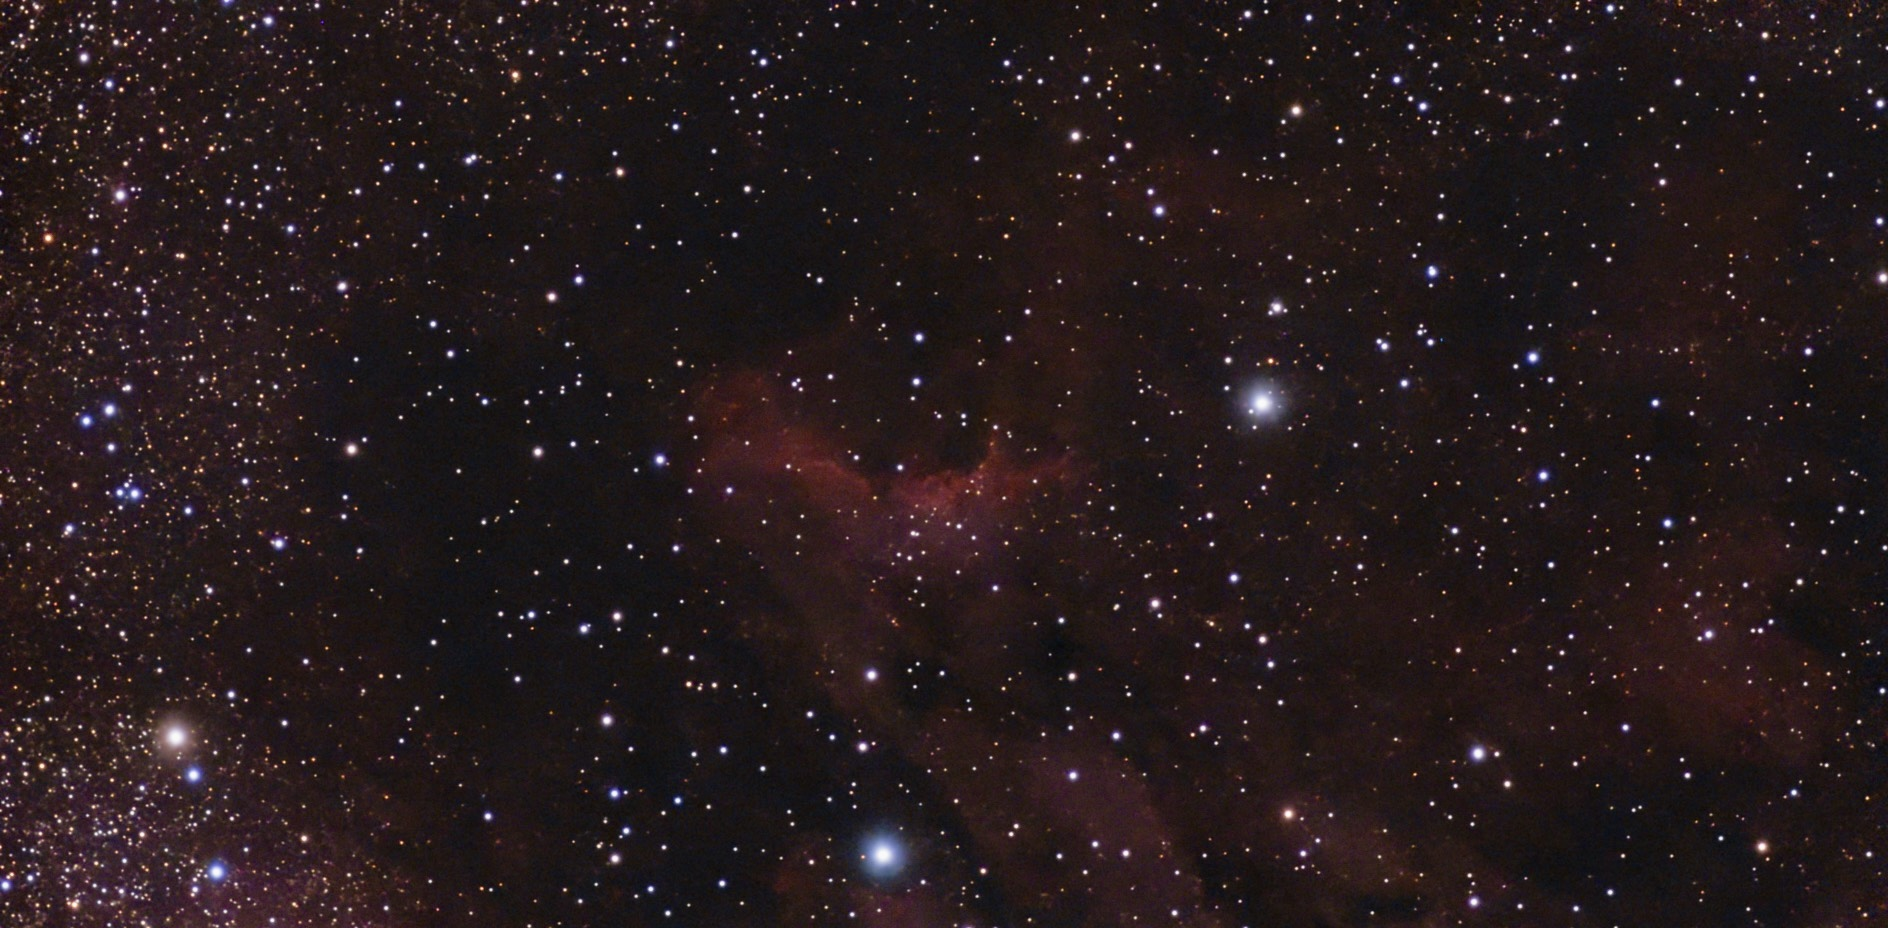
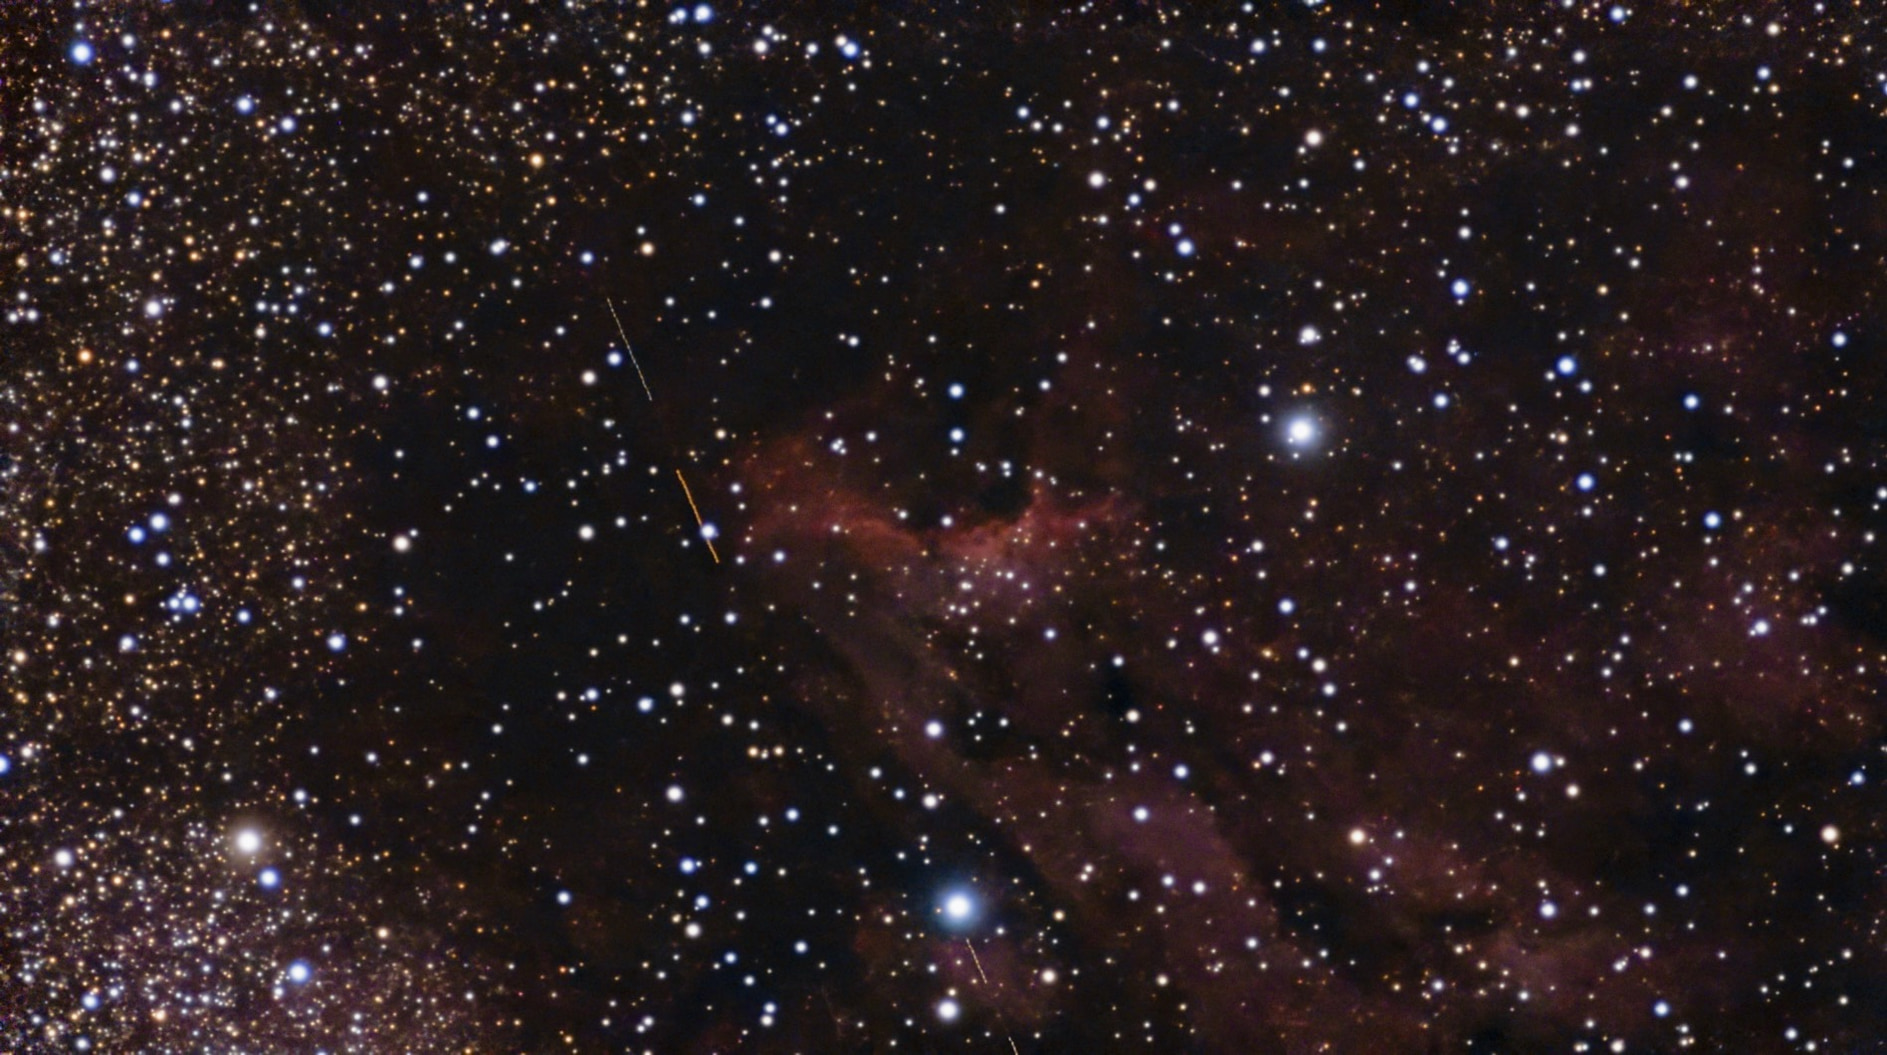
Update Pelican Nebula mega stack

diff --git a/src/lib/captures.ts b/src/lib/captures.ts
@@ -184,9 +184,9 @@ export const captures: Capture[] = [
       'An emission nebula roughly 1,800 light-years away, its dark dust lanes and glowing hydrogen tracing the outline of a pelican in Cygnus.',
     alt: 'The Pelican Nebula (IC 5070): faint red hydrogen clouds and dark dust lanes amid a dense field of stars.',
     image: 'media/captures/ic-5070.jpg',
-    width: 1888,
-    height: 928,
-    capturedOn: '2026-08-27',
+    width: 1887,
+    height: 1055,
+    capturedOn: '2026-09-11',
     kind: 'image',
   },
   {
